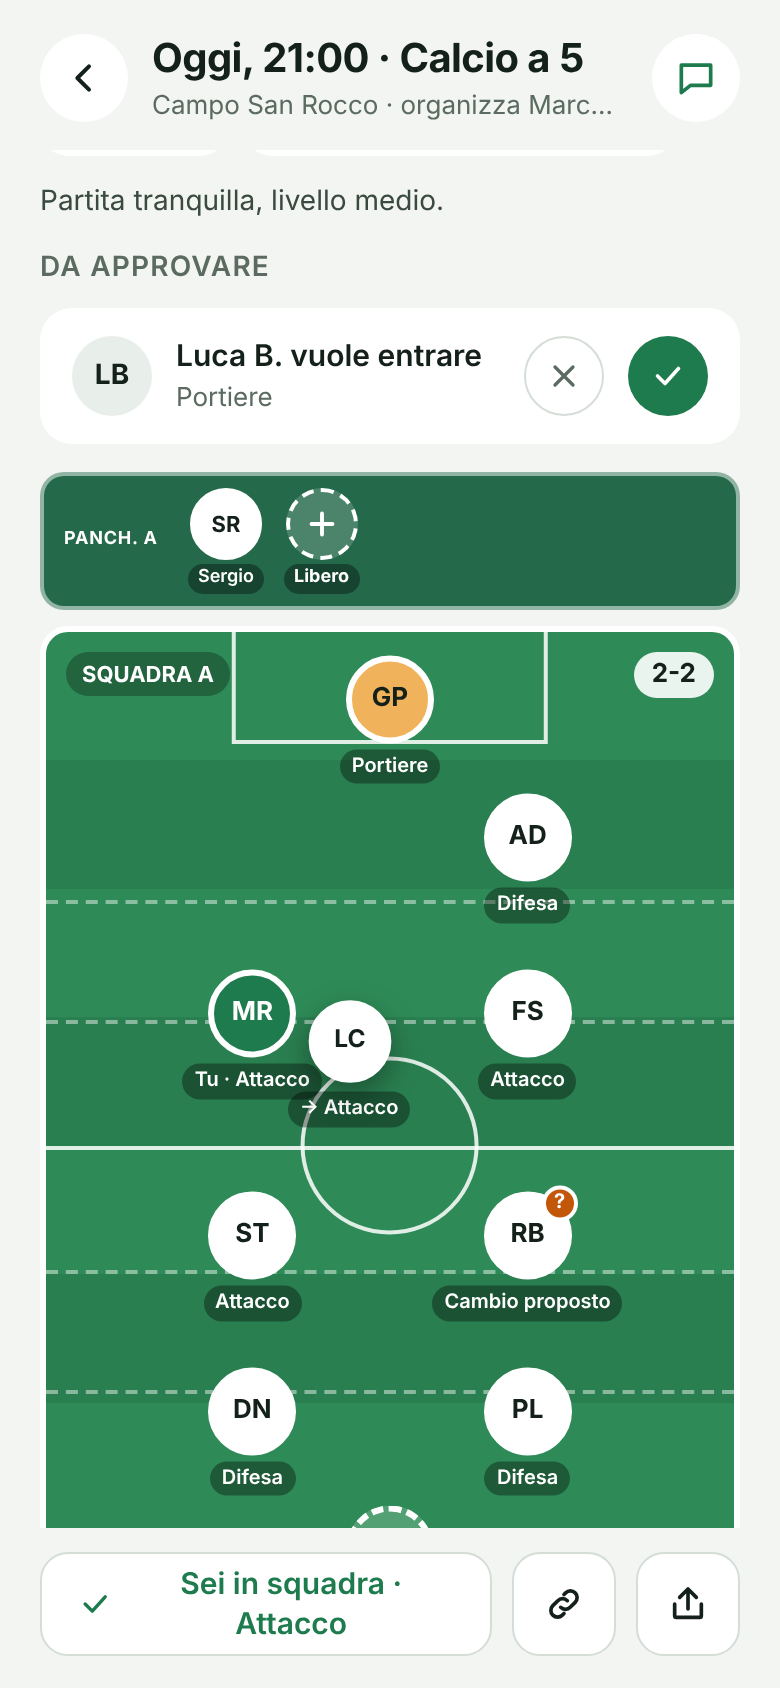
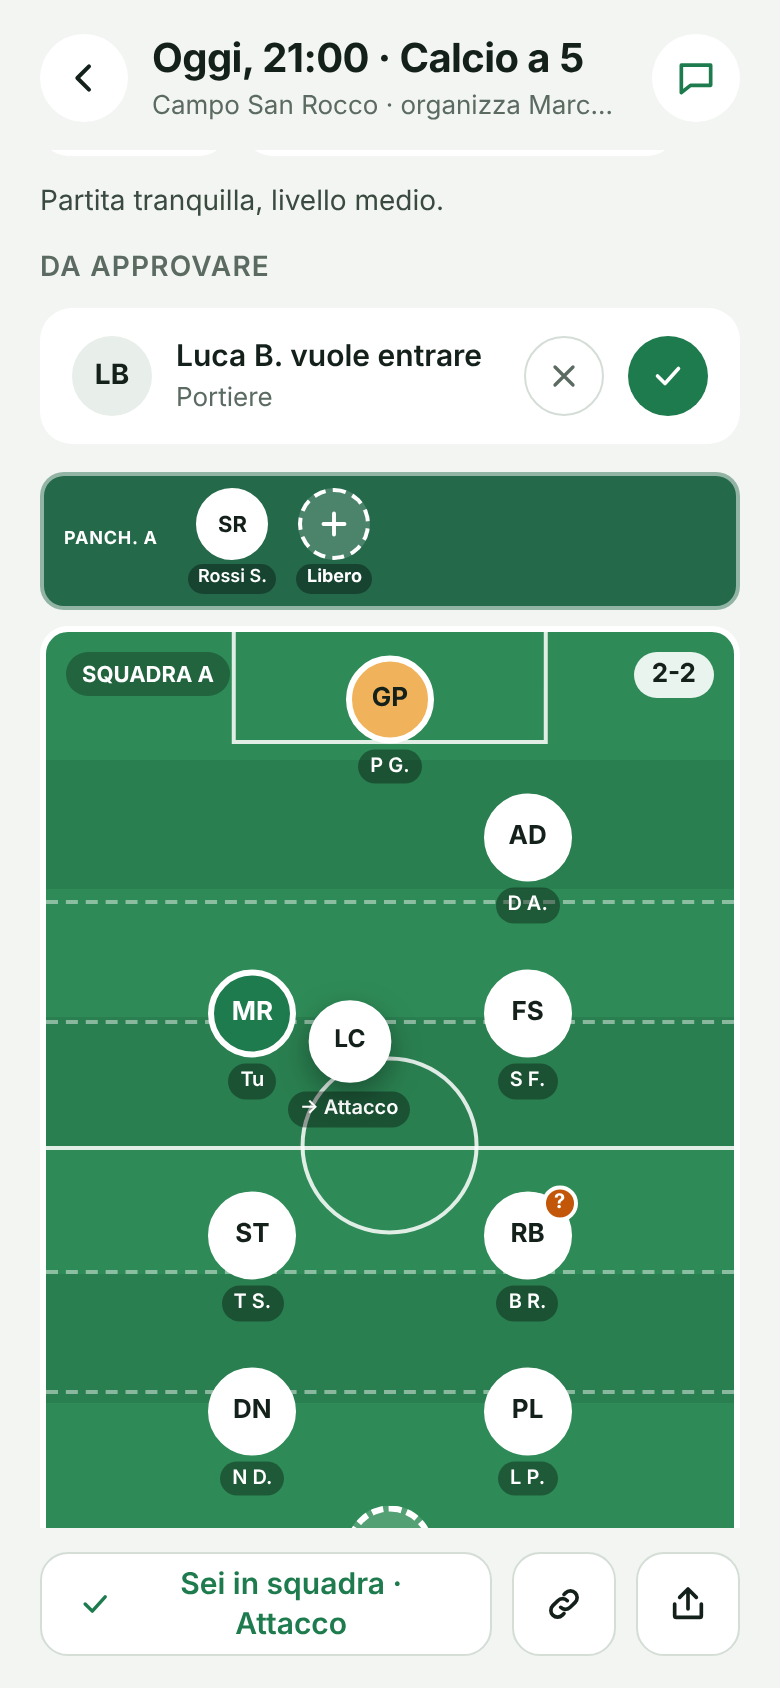
Selettore a passi per spostare e chiamare giocatori, cognome e iniziale sotto i cerchi
Claude-Session: https://claude.ai/code/session_01Djjfb2KNT9qH8Pf34YuUVA

diff --git a/src/pages/Partita.svelte b/src/pages/Partita.svelte
@@ -18,6 +18,29 @@
   let tribuna = $state([])
   let vice = $state([])
   let moduloSquadra = $state('A')
+  // selettore del posto a passi: squadra → ruolo → cerchio
+  let scelta = $state(null)   // { titolo, sotto, posti: [...], azione: (p) => ..., squadra, ruolo }
+  function apriScelta(titolo, sotto, posti, azione) {
+    const squadre = [...new Set(posti.map((x) => x.squadra))].sort()
+    scelta = { titolo, sotto, posti, azione, squadra: squadre.length === 1 ? squadre[0] : null, ruolo: null }
+    foglio = { tipo: 'scegli' }
+  }
+  const ORDINE_RUOLI = ['portiere', 'difesa', 'centro', 'attacco', 'panchina']
+  // etichetta del cerchio: lato del campo (dai cerchi come sono disegnati) o numero di panchina
+  function lato(p) {
+    if (p.ruolo === 'panchina') {
+      const panca = posizioni.filter((x) => x.squadra === p.squadra && x.ruolo === 'panchina')
+      return `posto ${panca.findIndex((x) => x.id === p.id) + 1}`
+    }
+    const fila = posizioni.filter((x) => x.squadra === p.squadra && x.ruolo === p.ruolo)
+    if (fila.length === 1) return ''
+    const c = coordinateCampo[p.id]?.x ?? 50
+    // per la squadra B il campo è visto dall'altra parte, ma "sinistra" resta quella dello schermo
+    const nome = c < 40 ? 'a sinistra' : c > 60 ? 'a destra' : 'al centro'
+    const uguali = fila.filter((x) => { const cx = coordinateCampo[x.id]?.x ?? 50; return (cx < 40 ? 'a sinistra' : cx > 60 ? 'a destra' : 'al centro') === nome })
+      .sort((a, b) => (coordinateCampo[a.id]?.x ?? 50) - (coordinateCampo[b.id]?.x ?? 50))
+    return uguali.length > 1 ? `${nome} (${uguali.findIndex((x) => x.id === p.id) + 1})` : nome
+  }
   let nuovo = $state({ difesa: 0, centro: 0, attacco: 0 })
   function apriModulo(sq) { moduloSquadra = sq; nuovo = contaRuoli(posizioni, sq); foglio = { tipo: 'modulo' } }
   let inviti = $state([])
@@ -163,6 +186,7 @@
     copiato = true; setTimeout(() => (copiato = false), 2500)
   }
   const altriPosti = (p) => posizioni.filter((x) => x.id !== p.id && gestisco(x.squadra)).sort((a, b) => (a.ruolo === 'panchina') - (b.ruolo === 'panchina') || a.squadra.localeCompare(b.squadra) || (a.giocatore_id ? 1 : 0) - (b.giocatore_id ? 1 : 0))
+  const coordinateCampo = $derived(disponi(posizioni))
   const postiLiberi = $derived(posizioni.filter((p) => p.stato === 'libera').sort((a, b) => (a.ruolo === 'panchina') - (b.ruolo === 'panchina') || a.squadra.localeCompare(b.squadra)))
 
   async function annulla() {
@@ -303,7 +327,7 @@
             <div class="chip-riga">
               {#each tribuna as t (t.giocatore_id)}
                 {#if sonoOrganizzatore && modificabile}
-                  <button type="button" class="chip" style="border: 1px solid var(--bordo); min-height: 36px" onclick={() => (foglio = { tipo: 'tribuna-membro', persona: { id: t.giocatore_id, profilo: t.giocatore } })}>
+                  <button type="button" class="chip" style="border: 1px solid var(--bordo); min-height: 36px" onclick={() => apriScelta(t.giocatore?.nome ?? 'Giocatore', 'È in tribuna. Scegli il posto che gli proponi: deve accettare.', postiLiberi.filter((x) => gestisco(x.squadra)), (x) => chiedi(x, t.giocatore_id))}>
                     <span class="avatar mini" style="width:22px;height:22px;font-size:9px;border-width:1px">{iniziali(t.giocatore)}</span>
                     {nomeBreve(t.giocatore)}{invitoPer(t.giocatore_id) ? ' · invitato' : ''}
                   </button>
@@ -413,7 +437,7 @@
       {@const p = foglio.posizione}
       <Foglio aperto titolo={p.giocatore?.nome ?? 'Giocatore'} sotto={`${etichettaRuolo(p.ruolo)} · squadra ${p.squadra}${p.giocatore_id === partita.organizzatore_id ? ' · organizzatore' : viceDi(p.giocatore_id) ? ` · vice squadra ${viceDi(p.giocatore_id)}` : ''}${p.stato === 'cambio_proposto' ? ` · cambio proposto: ${etichettaRuolo(p.nuovo_ruolo_proposto)}` : ''}`} chiudi={() => (foglio = null)}>
         {#if gestisco(p.squadra)}
-          <button type="button" class="btn" disabled={occupato} onclick={() => (foglio = { tipo: 'sposta', posizione: p })}>Sposta in un altro posto</button>
+          <button type="button" class="btn" disabled={occupato} onclick={() => apriScelta(`Sposta ${p.giocatore?.nome ?? 'il giocatore'}`, 'Il giocatore va sul cerchio che scegli; se è occupato, i due si scambiano.', altriPosti(p), (a) => sposta(p, a))}>Sposta in un altro posto</button>
           <div class="campo-form">
             <span class="aiuto" style="font-weight:600">{approvazione ? 'Cambia ruolo' : 'Proponi un cambio di ruolo (deve accettare)'}</span>
             <div class="scelte">
@@ -438,7 +462,7 @@
       {@const p = foglio.posizione}
       <Foglio aperto titolo={`Il tuo posto · ${etichettaRuolo(p.ruolo)}`} sotto={`Squadra ${p.squadra}. Per spostarti, tocca un altro posto libero sul campo.`} chiudi={() => (foglio = null)}>
         {#if sonoOrganizzatore}
-          <button type="button" class="btn" disabled={occupato} onclick={() => (foglio = { tipo: 'sposta', posizione: p })}>Sposta o scambia con un altro</button>
+          <button type="button" class="btn" disabled={occupato} onclick={() => apriScelta('Sposta te', 'Vai sul cerchio che scegli; se è occupato, vi scambiate.', altriPosti(p), (a) => sposta(p, a))}>Sposta o scambia con un altro</button>
           <div class="campo-form">
             <span class="aiuto" style="font-weight:600">Cambia il tuo ruolo</span>
             <div class="scelte">
@@ -478,6 +502,42 @@
           {/each}
         </div>
         <button type="button" class="btn" disabled={occupato || !ruoloScelto} onclick={aggiungi}>Aggiungi</button>
+      </Foglio>
+    {:else if foglio?.tipo === 'scegli' && scelta}
+      {@const squadre = [...new Set(scelta.posti.map((x) => x.squadra))].sort()}
+      {@const ruoli = ORDINE_RUOLI.filter((r) => scelta.posti.some((x) => x.squadra === scelta.squadra && x.ruolo === r))}
+      {@const cerchi = scelta.posti.filter((x) => x.squadra === scelta.squadra && x.ruolo === scelta.ruolo).sort((a, b) => (coordinateCampo[a.id]?.x ?? 0) - (coordinateCampo[b.id]?.x ?? 0))}
+      <Foglio aperto titolo={scelta.titolo} sotto={scelta.sotto} chiudi={() => { foglio = null; scelta = null }}>
+        {#if !scelta.posti.length}
+          <p class="aiuto">Non ci sono posti disponibili. Aggiungi un posto allo schema e riprova.</p>
+        {:else}
+          {#if squadre.length > 1}
+            <span class="aiuto" style="font-weight:600">1. Squadra</span>
+            <div class="scelte">
+              {#each squadre as sq}
+                <button type="button" class="scelta" class:attiva={scelta.squadra === sq} onclick={() => { scelta.squadra = sq; scelta.ruolo = null }}>Squadra {sq}</button>
+              {/each}
+            </div>
+          {/if}
+          {#if scelta.squadra}
+            <span class="aiuto" style="font-weight:600">{squadre.length > 1 ? '2. ' : '1. '}Ruolo</span>
+            <div class="scelte">
+              {#each ruoli as r}
+                {@const n = scelta.posti.filter((x) => x.squadra === scelta.squadra && x.ruolo === r).length}
+                <button type="button" class="scelta" class:attiva={scelta.ruolo === r} onclick={() => (scelta.ruolo = r)}>{etichettaRuolo(r)}{n > 1 ? ` · ${n}` : ''}</button>
+              {/each}
+            </div>
+          {/if}
+          {#if scelta.ruolo}
+            <span class="aiuto" style="font-weight:600">{squadre.length > 1 ? '3. ' : '2. '}{cerchi.length > 1 ? 'Quale posto' : 'Conferma'}</span>
+            {#each cerchi as c (c.id)}
+              <button type="button" class="btn bianco piccolo" style="justify-content:flex-start" disabled={occupato} onclick={() => { const a = scelta.azione; scelta = null; a(c) }}>
+                {etichettaRuolo(c.ruolo)} {lato(c)}
+                <span class="aiuto">· {c.giocatore_id ? `scambio con ${c.giocatore_id === uid ? 'te' : nomeBreve(c.giocatore)}` : 'libero'}</span>
+              </button>
+            {/each}
+          {/if}
+        {/if}
       </Foglio>
     {:else if foglio?.tipo === 'sposta'}
       {@const p = foglio.posizione}

diff --git a/src/components/CampoDisegnato.svelte b/src/components/CampoDisegnato.svelte
@@ -2,7 +2,7 @@
   // Campo da calcio con le due squadre in formazione (dal mockup partita.html).
   // Squadra A in alto, squadra B in basso. Ogni posto è toccabile se c'è `alClick`.
   import Icona from './Icona.svelte'
-  import { etichettaRuolo, iniziali } from '../lib/formato.js'
+  import { etichettaRuolo, iniziali, nomeCampo } from '../lib/formato.js'
   import { disponi, moduloDi, ruoloDaAltezza } from '../lib/formazione.js'
   let { posizioni = [], mioId = null, alClick = null, evidenzia = null, trascinabile = null, alTrascina = null } = $props()
 
@@ -74,12 +74,11 @@
     return c
   }
   function etichetta(p) {
-    if (p.ruolo === 'panchina') return p.stato === 'libera' ? 'Libero' : (p.giocatore_id === mioId ? 'Tu' : (p.giocatore?.nome ?? '').split(' ')[0])
+    if (p.ruolo === 'panchina') return p.stato === 'libera' ? 'Libero' : (p.giocatore_id === mioId ? 'Tu' : nomeCampo(p.giocatore))
     if (trascinato?.id === p.id && p.ruolo !== 'portiere') return `→ ${etichettaRuolo(ruoloDaAltezza(trascinato.y))}`
     if (p.stato === 'libera') return `${etichettaRuolo(p.ruolo)} libero`
-    if (p.stato === 'cambio_proposto') return 'Cambio proposto'
-    const base = etichettaRuolo(p.ruolo)
-    return p.giocatore_id === mioId ? `Tu · ${base}` : base
+    // posto occupato: cognome e iniziale del nome (il ruolo si capisce dalla posizione)
+    return p.giocatore_id === mioId ? 'Tu' : nomeCampo(p.giocatore)
   }
   function ariaLabel(p) {
     if (p.stato === 'libera') return `Posto libero: ${etichettaRuolo(p.ruolo)}, squadra ${p.squadra}`
@@ -163,7 +162,7 @@
   .nome-squadra.alto { top: 10px; } .nome-squadra.basso { bottom: 10px; }
   .modulo { position: absolute; right: 10px; font-family: var(--font-titoli); font-size: 13px; font-weight: 700; color: var(--testo); background: rgba(255,255,255,0.9); padding: 3px 9px; border-radius: 999px; pointer-events: none; }
   .modulo.alto { top: 10px; } .modulo.basso { bottom: 10px; }
-  .posto { position: absolute; width: 64px; transform: translate(-50%, -50%); display: flex; flex-direction: column; align-items: center; gap: 3px; transition: left .25s, top .25s; }
+  .posto { position: absolute; width: 84px; transform: translate(-50%, -50%); display: flex; flex-direction: column; align-items: center; gap: 3px; transition: left .25s, top .25s; }
   .posto.sopra { z-index: 5; transition: none; }
   .trascinabile { touch-action: none; -webkit-user-select: none; user-select: none; -webkit-touch-callout: none; }
   .in-trascinamento { transform: scale(1.15); box-shadow: 0 6px 16px rgba(0,0,0,.35); }
@@ -192,7 +191,7 @@
   .posto-panchina { display: flex; flex-direction: column; align-items: center; gap: 2px; }
   .pallino-posto.piccolo { width: 36px; height: 36px; border-radius: 18px; font-size: 11px; border-width: 2px; }
   .posto-panchina .targhetta { font-size: 9px; padding: 1px 5px; max-width: 58px; overflow: hidden; text-overflow: ellipsis; }
-  .targhetta { font-size: 10px; font-weight: 600; color: #fff; background: rgba(0,0,0,0.35); padding: 2px 6px; border-radius: 999px; white-space: nowrap; pointer-events: none; }
+  .targhetta { font-size: 10px; font-weight: 600; color: #fff; background: rgba(0,0,0,0.35); padding: 2px 6px; border-radius: 999px; white-space: nowrap; pointer-events: none; max-width: 84px; overflow: hidden; text-overflow: ellipsis; }
   .targhetta.libera { font-weight: 700; }
   .targhetta.portiere { color: var(--testo); background: var(--portiere); }
   /* cellulare: panchina A sopra il campo, B sotto, in orizzontale */

diff --git a/src/lib/formato.js b/src/lib/formato.js
@@ -99,3 +99,11 @@ export function perInputDataOra(d) {
   const p = (n) => String(n).padStart(2, '0')
   return `${d.getFullYear()}-${p(d.getMonth() + 1)}-${p(d.getDate())}T${p(d.getHours())}:${p(d.getMinutes())}`
 }
+
+/** Nome sotto il cerchio: cognome e iniziale del nome, es. "Rizzo M." */
+export function nomeCampo(p) {
+  const parti = (p?.nome ?? '').trim().split(/\s+/).filter(Boolean)
+  if (!parti.length) return 'Giocatore'
+  if (parti.length === 1) return parti[0]
+  return `${parti.slice(1).join(' ')} ${parti[0][0].toUpperCase()}.`
+}

diff --git a/CLAUDE.md b/CLAUDE.md
@@ -94,3 +94,4 @@ RLS: tutti leggono campi e partite aperte; messaggi leggibili/scrivibili solo da
 - 2026-11-11: **Modulo** scelto alla creazione (`p_modulo`, es. 1-2-2 / 1-1-3 / 1-1-2-1; elenco in `src/lib/formazione.js` → MODULI) e cambiabile per squadra con `cambia_modulo` (chi è in campo resta in campo). **Sposta/scambia** giocatori con `sposta_giocatore`. **Vice** per squadra (tabella `vice`, colonna `squadra`): gestisce modulo e posizioni solo della sua squadra (`puo_gestire_squadra`); l'organizzatore gestisce entrambe e nomina i vice. Con modalità `approvazione` il cambio di ruolo è diretto, senza conferma. Panchine: a lato del campo su schermi larghi, sopra/sotto in orizzontale sotto i 480px. Bottone "copia link" nella partita.
 - 2026-11-11: Modulo **senza portiere** (sempre 1) e scelto con **tre contatori** Difesa/Centrocampo/Attacco (`src/components/Contatori.svelte`), niente elenco di moduli fissi. Il modulo si mostra sul campo: in alto a destra per la squadra A, in basso a destra per la B. Nel DB resta la forma `1-d-c-a` (`moduloPerDb`), nei messaggi `testo_modulo`.
 - 2026-11-11: **Formazione trascinando i cerchi** (pressione lunga 0,7 s, `TEMPO_PRESSIONE` in `CampoDisegnato.svelte`): il ruolo si deduce dall'altezza nella metà campo (`ruolo_da_altezza`: <47 difesa, <73 centrocampo, oltre attacco), il portiere resta in porta e si sposta solo di lato. Posti spostati a mano hanno `posizioni.manuale = true` e coordinate x/y salvate; al primo trascinamento il client fissa anche gli altri della squadra (`fissa_posti`). Cambiando modulo con i contatori la squadra torna automatica.
+- 2026-11-11: Sotto i cerchi occupati: **cognome + iniziale del nome** (`nomeCampo`), "Tu" per sé; il ruolo si capisce dalla posizione. I cerchi si muovono solo con trascinamento o cambio modulo; spostare un giocatore o chiamarlo dalla tribuna usa un **selettore a passi** squadra → ruolo → quale cerchio (a sinistra/al centro/a destra, panchina posto 1-2…).

diff --git a/docs/PUNTO.md b/docs/PUNTO.md
@@ -50,6 +50,7 @@ Aggiornato: 11 novembre 2026, sera: tutto provato dal telefono, resta solo il ri
 6d. [x] **Modulo, sposta/scambia, vice di squadra, cambio ruolo diretto con "decido io", panchina sul cellulare, copia link** (richiesti l'11/11 sera): migrazioni 0004-0006 applicate da Claude, in anteprima su anteprima.nemanca1.pages.dev
 6e. [x] **Modulo con tre contatori, senza portiere, mostrato sul campo** (richiesto l'11/11 sera), in anteprima
 6f. [x] **Formazione trascinando i cerchi** con ruolo e modulo automatici (richiesto l'11/11 sera), in anteprima
+6g. [x] **Selettore a passi** squadra → ruolo → cerchio per spostare o chiamare giocatori; **cognome e iniziale** sotto i cerchi (richiesti l'11/11 sera), in anteprima
 7. [x] **Pagina amministratore** `/admin` (ramo `tappa-2`): numeri, ultimi iscritti con email e badge "nuovi", prossime partite con annulla, campi con verifica/elimina. Accesso dal Profilo, solo per `profili.admin` (il primo iscritto, Flavio)
 8. [ ] **Avviso a Flavio a ogni nuovo iscritto** (richiesto l'11/11). Già fatto: badge "nuovi" nella pagina amministratore. Manca: email automatica (serve mettere la chiave Resend nei segreti di Supabase) e (trigger DB → Resend), poi come notifica push con OneSignal (Tappa 3) e lista "ultimi iscritti" nella pagina amministratore
 
